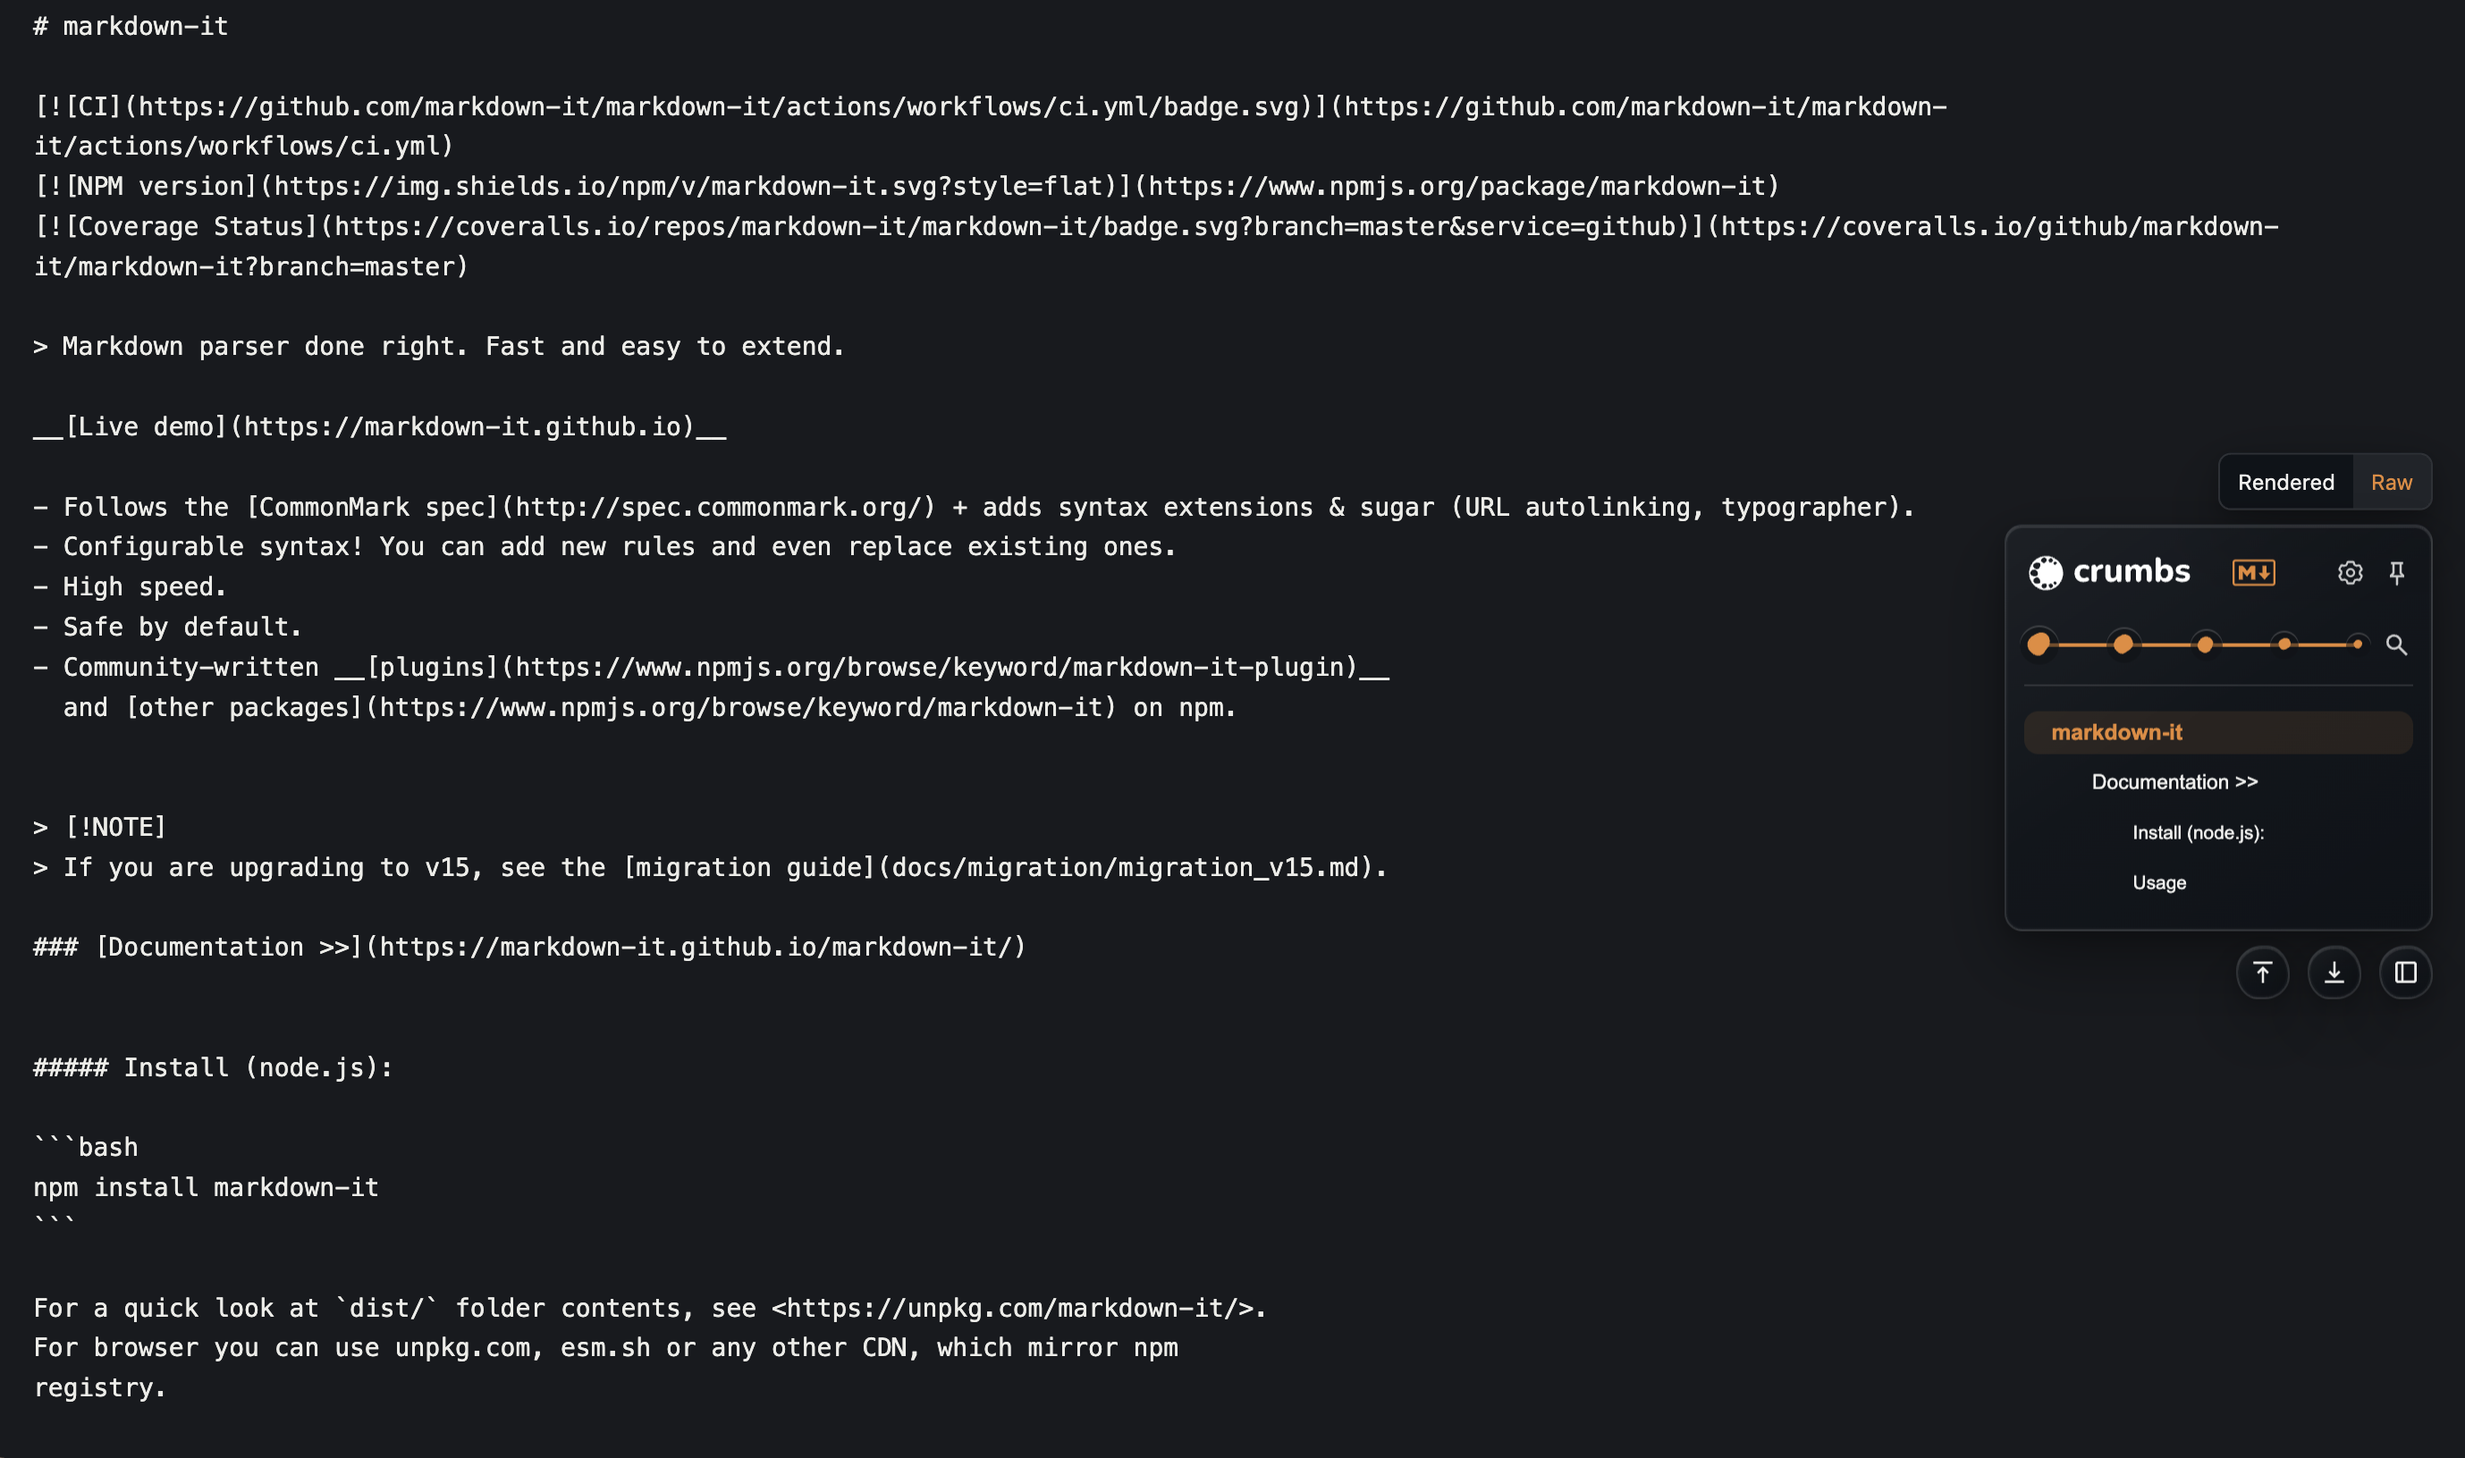
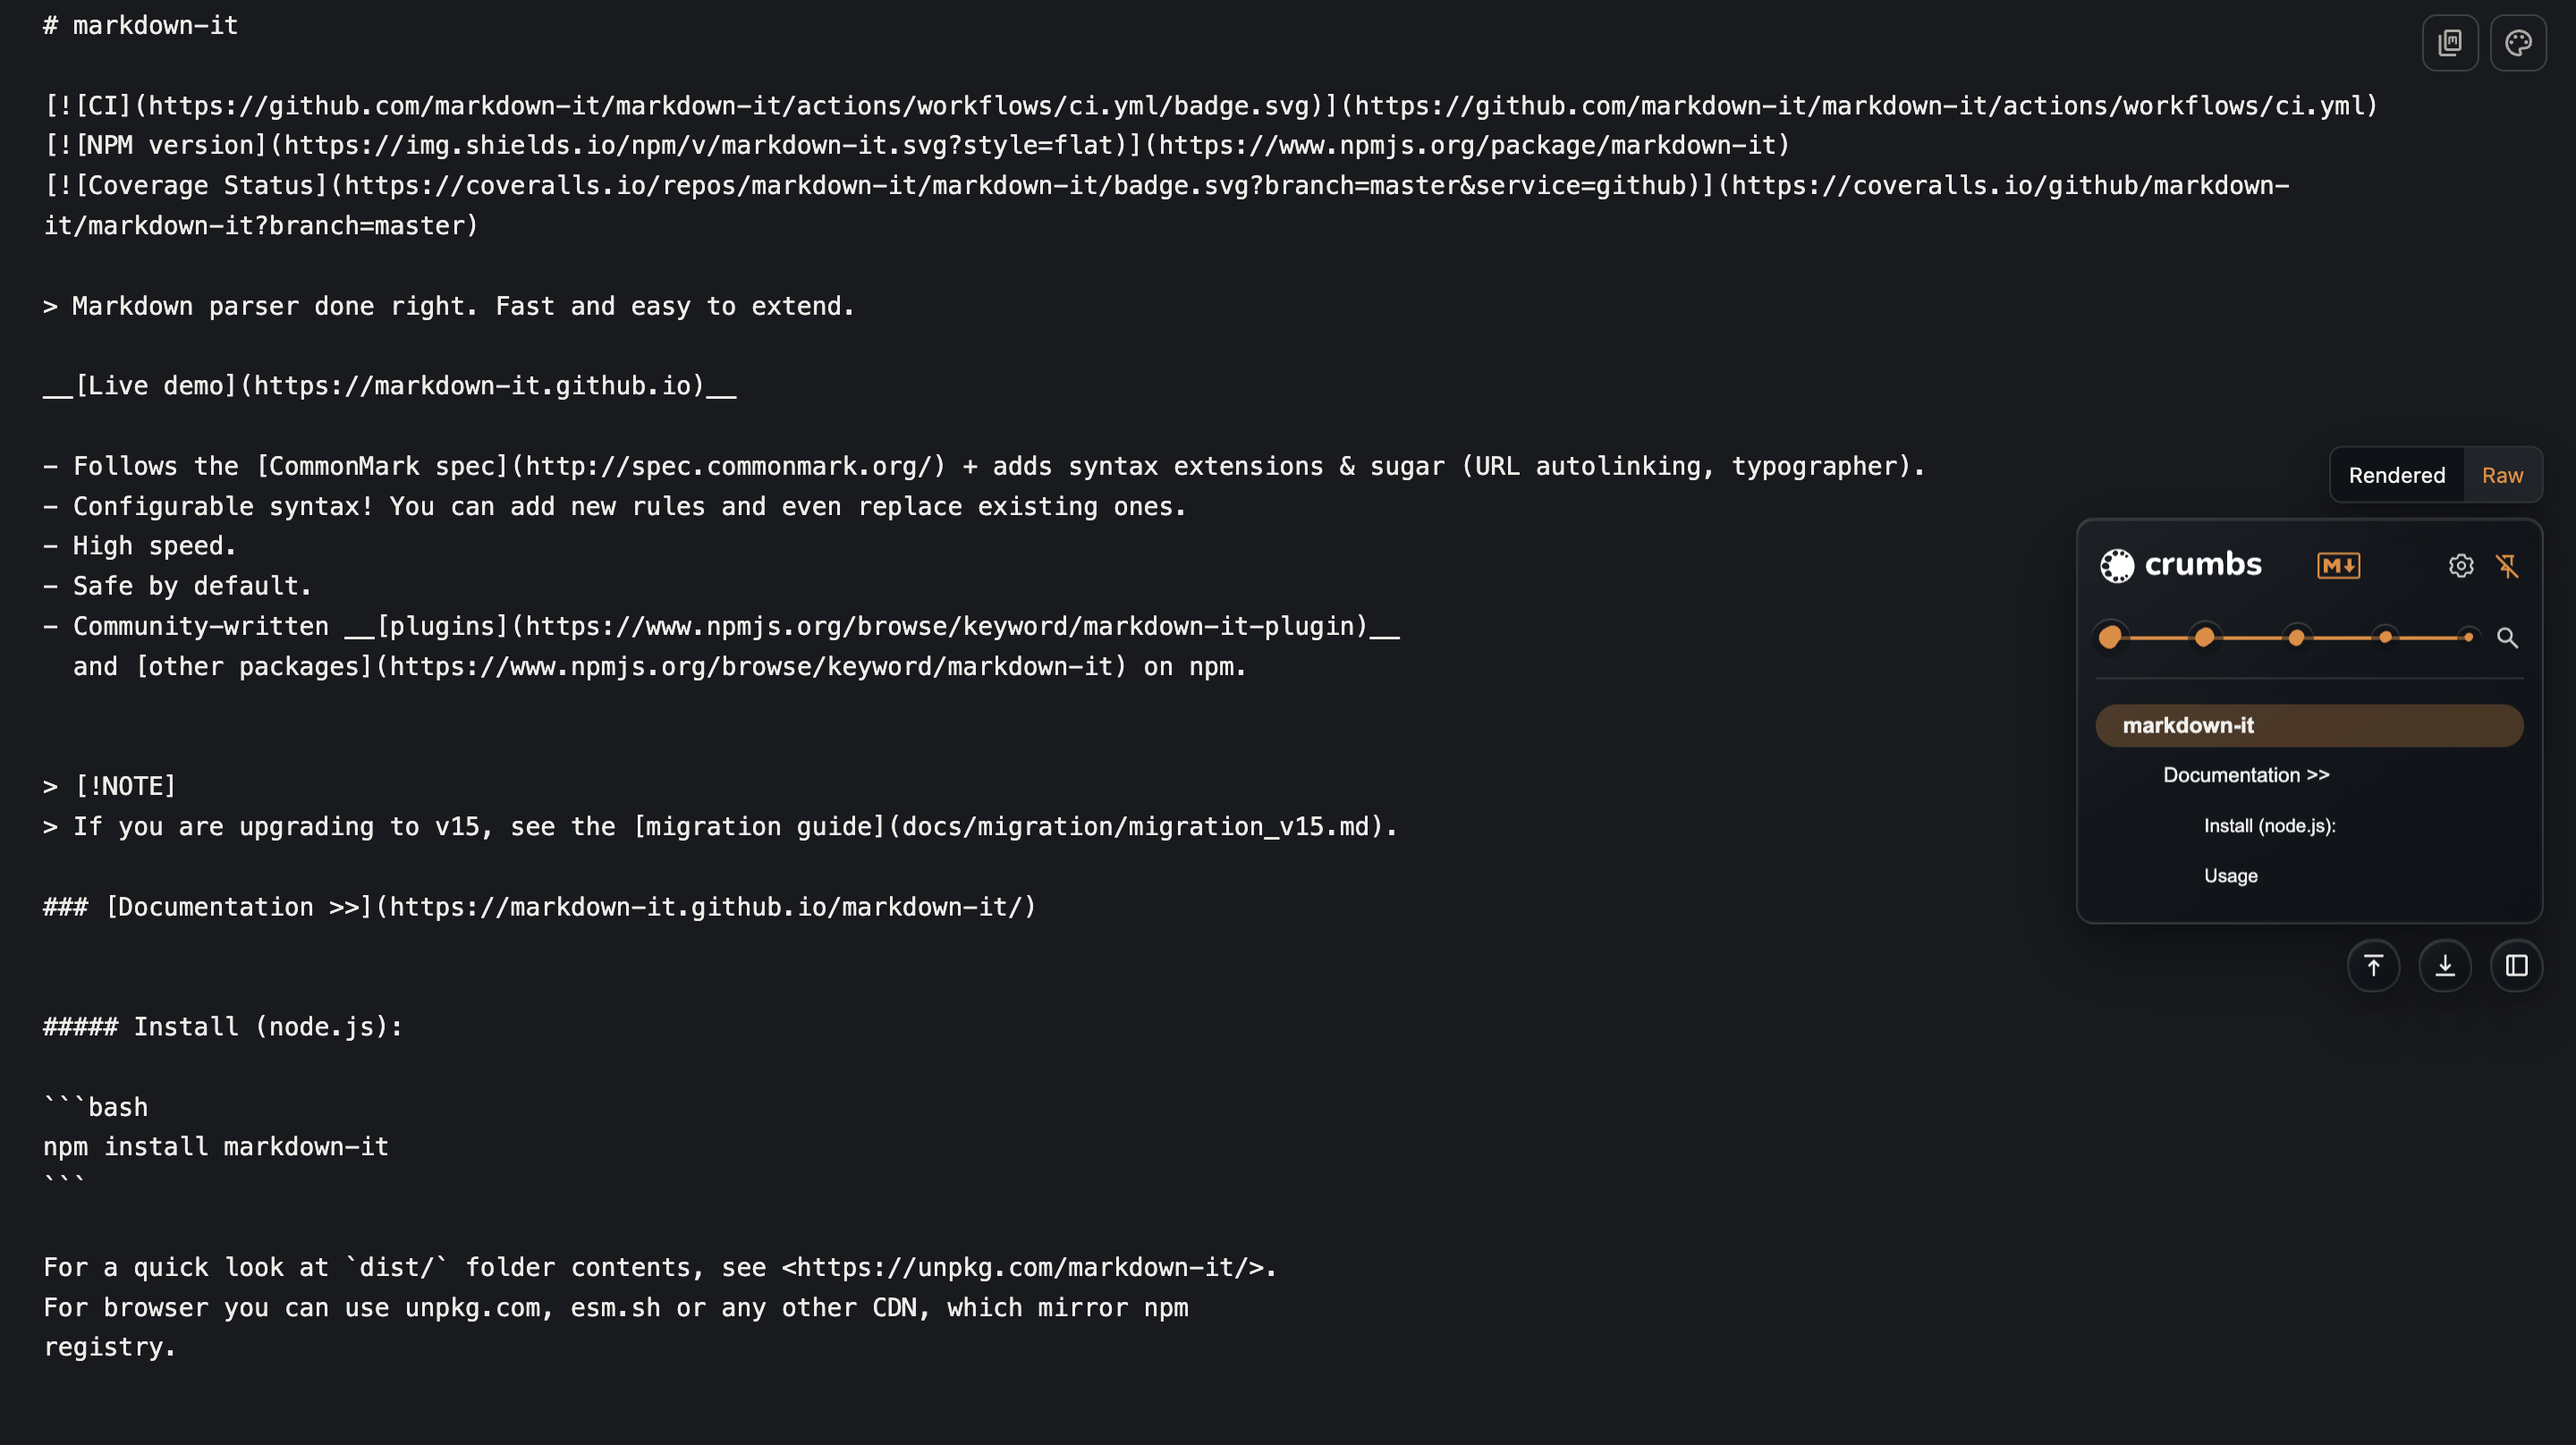
Refresh landing screenshots with current extension UI (#16)

diff --git a/src/styles/global.css b/src/styles/global.css
@@ -1569,3 +1569,24 @@ summary:focus-visible {
     grid-row: 1;
   }
 }
+
+.hero-screenshot-composite {
+  position: relative;
+}
+.hero-screenshot-composite > img {
+  display: block;
+  width: 100%;
+  height: auto;
+}
+.hero-collapsed-inset {
+  position: absolute;
+  right: 19%;
+  top: 29%;
+  width: 8%;
+  height: auto;
+}
+.json-product-preview > img {
+  display: block;
+  width: 100%;
+  height: auto;
+}
